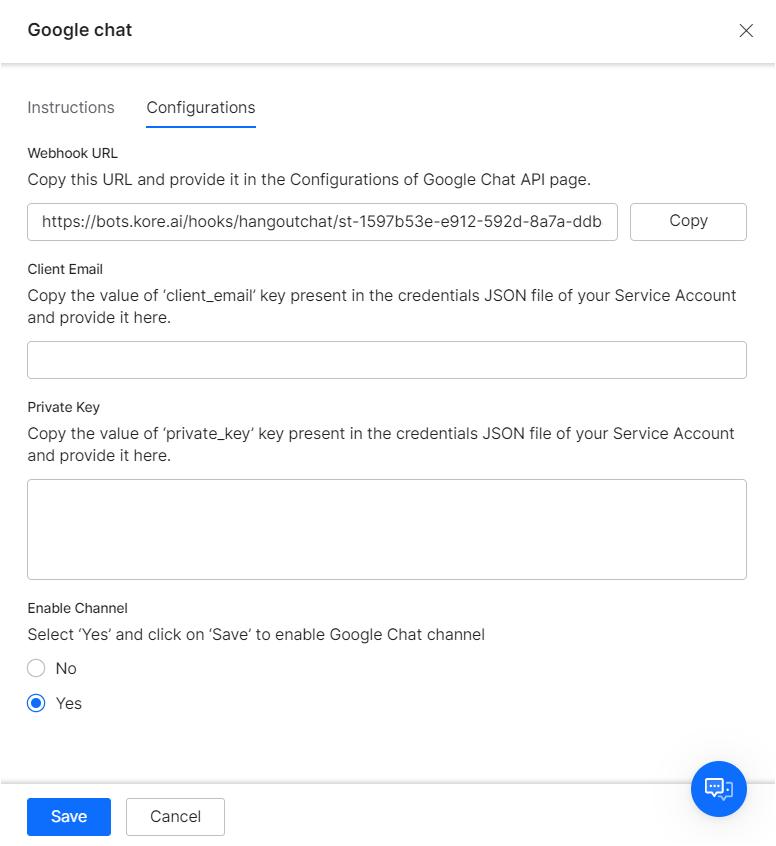
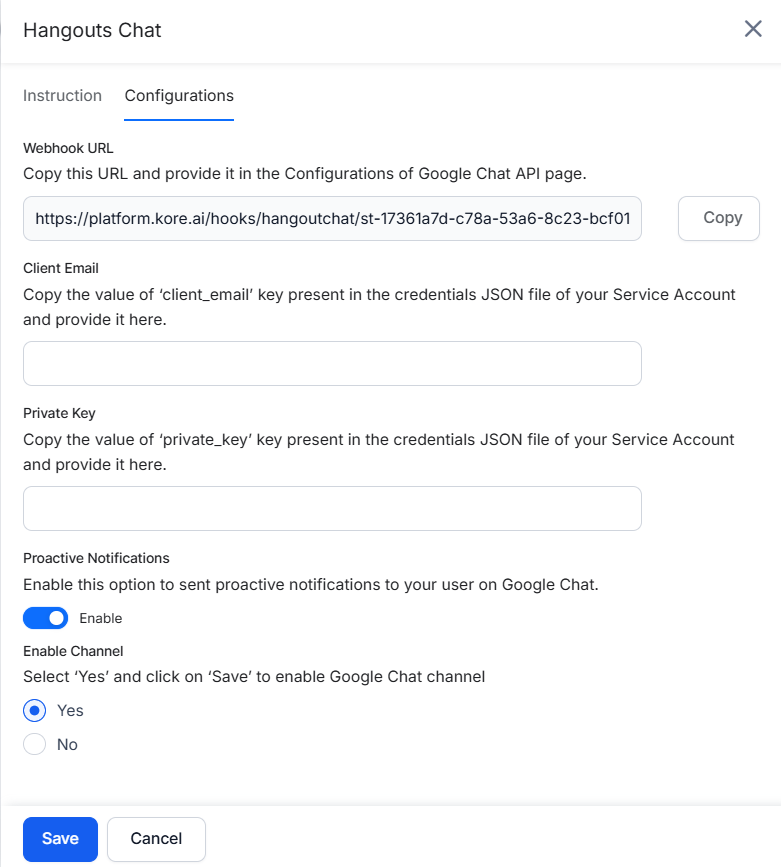
updated Hangouts chat document.

diff --git a/docs/xo/channels/adding-channels-to-your-bot.md b/docs/xo/channels/adding-channels-to-your-bot.md
@@ -47,20 +47,12 @@ Click the icon of the channel you want to add, and then configure the channel to
 
 | [Cisco Jabber](./add-cisco-jabber-channel.md) <br><br> [![](./images/logo1-jabber.png)](./add-cisco-jabber-channel.md) | [Cisco Webex Teams<br>(formerly  Cisco Spark)](./add-cisco-channel.md)  <br>[![](./images/logo2-cisco-webex-teams.png)](./add-cisco-channel.md) | [Google Assistant](./add-google-assistant-channel.md) <br><br> [![](./images/logo4-google-assistant.png)](./add-google-assistant-channel.md)| [Genesys Cloud  <br>CX Messaging](./add-genesys-chat-channel.md)   <br> [![](./images/logo5-genesys-chat-new-logo.png)](./add-genesys-chat-channel.md)|
 |:---:|:---:|:---:|:---:|
-| [**Google Business Messaging**](./add-google-business-messaging-channel.md)  <br>[![](./images/logo6-gbm.png)](./add-google-business-messaging-channel.md) | [**Google Chat**](./add-google-chat.md) <br> <br>[![](./images/logo7-google-chat.png)](./add-google-chat.md) | [**Kore.ai**](./add-kore-channel.md)  <br>  <br>[![](./images/logo8-kore-ai.png)](./add-kore-channel.md) | [**Live Person**](./add-live-person-channel.md) <br>  <br>[![](./images/logo9-live-person.png)](./add-live-person-channel.md)|
+| [**Google Business Messaging**](./add-google-business-messaging-channel.md)  <br>[![](./images/logo6-gbm.png)](./add-google-business-messaging-channel.md) | [**Hangouts Chat**](./add-google-chat.md) <br> <br>[![](./images/logo7-google-chat.png)](./add-google-chat.md) | [**Kore.ai**](./add-kore-channel.md)  <br>  <br>[![](./images/logo8-kore-ai.png)](./add-kore-channel.md) | [**Live Person**](./add-live-person-channel.md) <br>  <br>[![](./images/logo9-live-person.png)](./add-live-person-channel.md)|
 | [**Mattermost**](./add-mattermost-channel.md)  <br>   <br>[![](./images/logo10-mattermost.png)](./add-mattermost-channel.md) | [**Microsoft Teams**](./add-microsoft-teams-channel.md)  <br>  <br>[![](./images/logo11-ms-teams.png)](./add-microsoft-teams-channel.md) | [**Naver Works**](./add-naver-works-channel.md)    <br>[![](./images/logo12-naver.png)](./add-naver-works-channel.md) | [**Nice inContact**](./add-nice-incontact-channel.md)   <br>  <br>[![](./images/logo13-nice.png)](./add-nice-incontact-channel.md) |
 | [**RCS Business Messaging**](./add-google-rcs-channel.md)<br>  <br>[![](./images/logo14-rcs.png)](./add-google-rcs-channel.md)| [**Glip by RingCentral**](./add-ringcentral-glip-channel.md)  <br><br>[![](./images/logo15-glip.png)](./add-ringcentral-glip-channel.md) | [**RingCentral Engage**](./add-ringcentral-engage-channel.md)   <br><br>[![](./images/logo16-ring-central.png)](./add-ringcentral-engage-channel.md) | [**Sinch**](./add-sinch-channel.md)  <br> <br>[![](./images/sinch-logo.png)](./add-sinch-channel.md)|
 | [**Skype for Business**](./add-skype-business-channel.md)  <br> <br>[![](./images/logo17-skype-business.png)](./add-skype-business-channel.md) | [**Slack**](./add-slack-channel.md) <br>  <br>[![](./images/logo18-slack.png)](./add-slack-channel.md) | [**Sunshine Conversations**](./add-sunshine-conversations-channel.md)   <br><br>[![](./images/logo19-sunshine-conversations.png)](./add-sunshine-conversations-channel.md) | [**Syniverse**](./add-syniverse-channel.md)  <br>  <br>[![](./images/logo20-syniverse.png)](./add-syniverse-channel.md)|
 | [**Unblu**](./add-unblu-channel.md)  <br>  <br>[![](./images/logo21-unblu.png)](./add-unblu-channel.md) | [**WhatsApp Business Messaging**](./add-whatsapp-business-channel.md)  <br><br>[![](./images/logo22-whatsapp-business.png)](./add-whatsapp-business-channel.md) | [**Workplace By Facebook**](./add-workplace-by-facebook-channel.md) <br> <br>[![](./images/logo23-wp-facebook.png)](./add-workplace-by-facebook-channel.md) | [**Yammer**](./add-microsoft-yammer-channel.md) <br>  <br>[![](./images/logo24-yammer.png)](./add-microsoft-yammer-channel.md)|
 | [**Zoom Contact Center**](./add-zoom-contact-center-channel.md) <br> <br>[![](./images/logo25-zoom.png)](./add-zoom-contact-center-channel.md)|
-
-
-
-
-
-
-
-
 
 
 ### Social Channels

diff --git a/docs/xo/channels/add-google-chat.md b/docs/xo/channels/add-google-chat.md
@@ -1,6 +1,6 @@
-# Adding the Google Chat Channel
+# Adding the Hangouts Chat Channel
 
-Adding Google Chat as a channel to your Kore.ai assistant allows end-users to chat with it using Google Chat. This article shows you how to set it up.
+Adding Hangouts Chat as a channel to your Kore.ai assistant allows end-users to chat with it using Hangouts Chat. This article shows you how to set it up.
 
 
 ## Step 1: Enable the Google Chat API
@@ -74,17 +74,18 @@ Once your service account has been created, you need to manage the keys correspo
 A JSON file will be generated and you need to copy the _client_email_, and _private_key_ that needs to be input into the XO Platform. .
 
 
-## Step 4: Configure the Google Chat Channel
+## Step 4: Configure the Hangouts Chat Channel
 
-In the XO Platform, select the VA you’re working with, then go to **Channels & Flows** > **Channels** > **Digital** > **All** > **Google Chat** > **Configurations**.
-
+In the XO Platform, select the VA you’re working with, then go to **Channels & Flows** > **Channels** > **Digital** > **All** > **Hangouts Chat** > **Configurations**.
 
 1. Enter the following configuration details:
     1. **Client Email** – Copy the value of the _client_email_ field present in the credentials JSON file of your Service Account and enter it here.
-    2. **Private Key** – Copy the value of the _private_key_ field present in the credentials JSON file of your Service Account and enter it here
-2. Select the **Yes** and click **Save** to enable Google Chat channel.
-<img src="../images/google_chat12.png" alt="save channel" title="save channel" style="border: 1px solid gray; zoom:70%;">
+    2. **Private Key** – Copy the value of the _private_key_ field present in the credentials JSON file of your Service Account and enter it here.
 
+2. Enable **Proactive Notifications** to send  relevant updates to the users without requiring them to initiate interaction with the app first.
+
+3. Select **Yes** and click **Save** to enable Hangouts Chat channel.
+<img src="../images/google_chat12.png" alt="save channel" title="save channel" style="border: 1px solid gray; zoom:70%;">
 
 After enabling the channel and verifying all the configurations, you can optionally publish the assistant for the new channel. Learn more about[ Publishing your Virtual Assistant](../deploy/publishing-bot.md).
 
